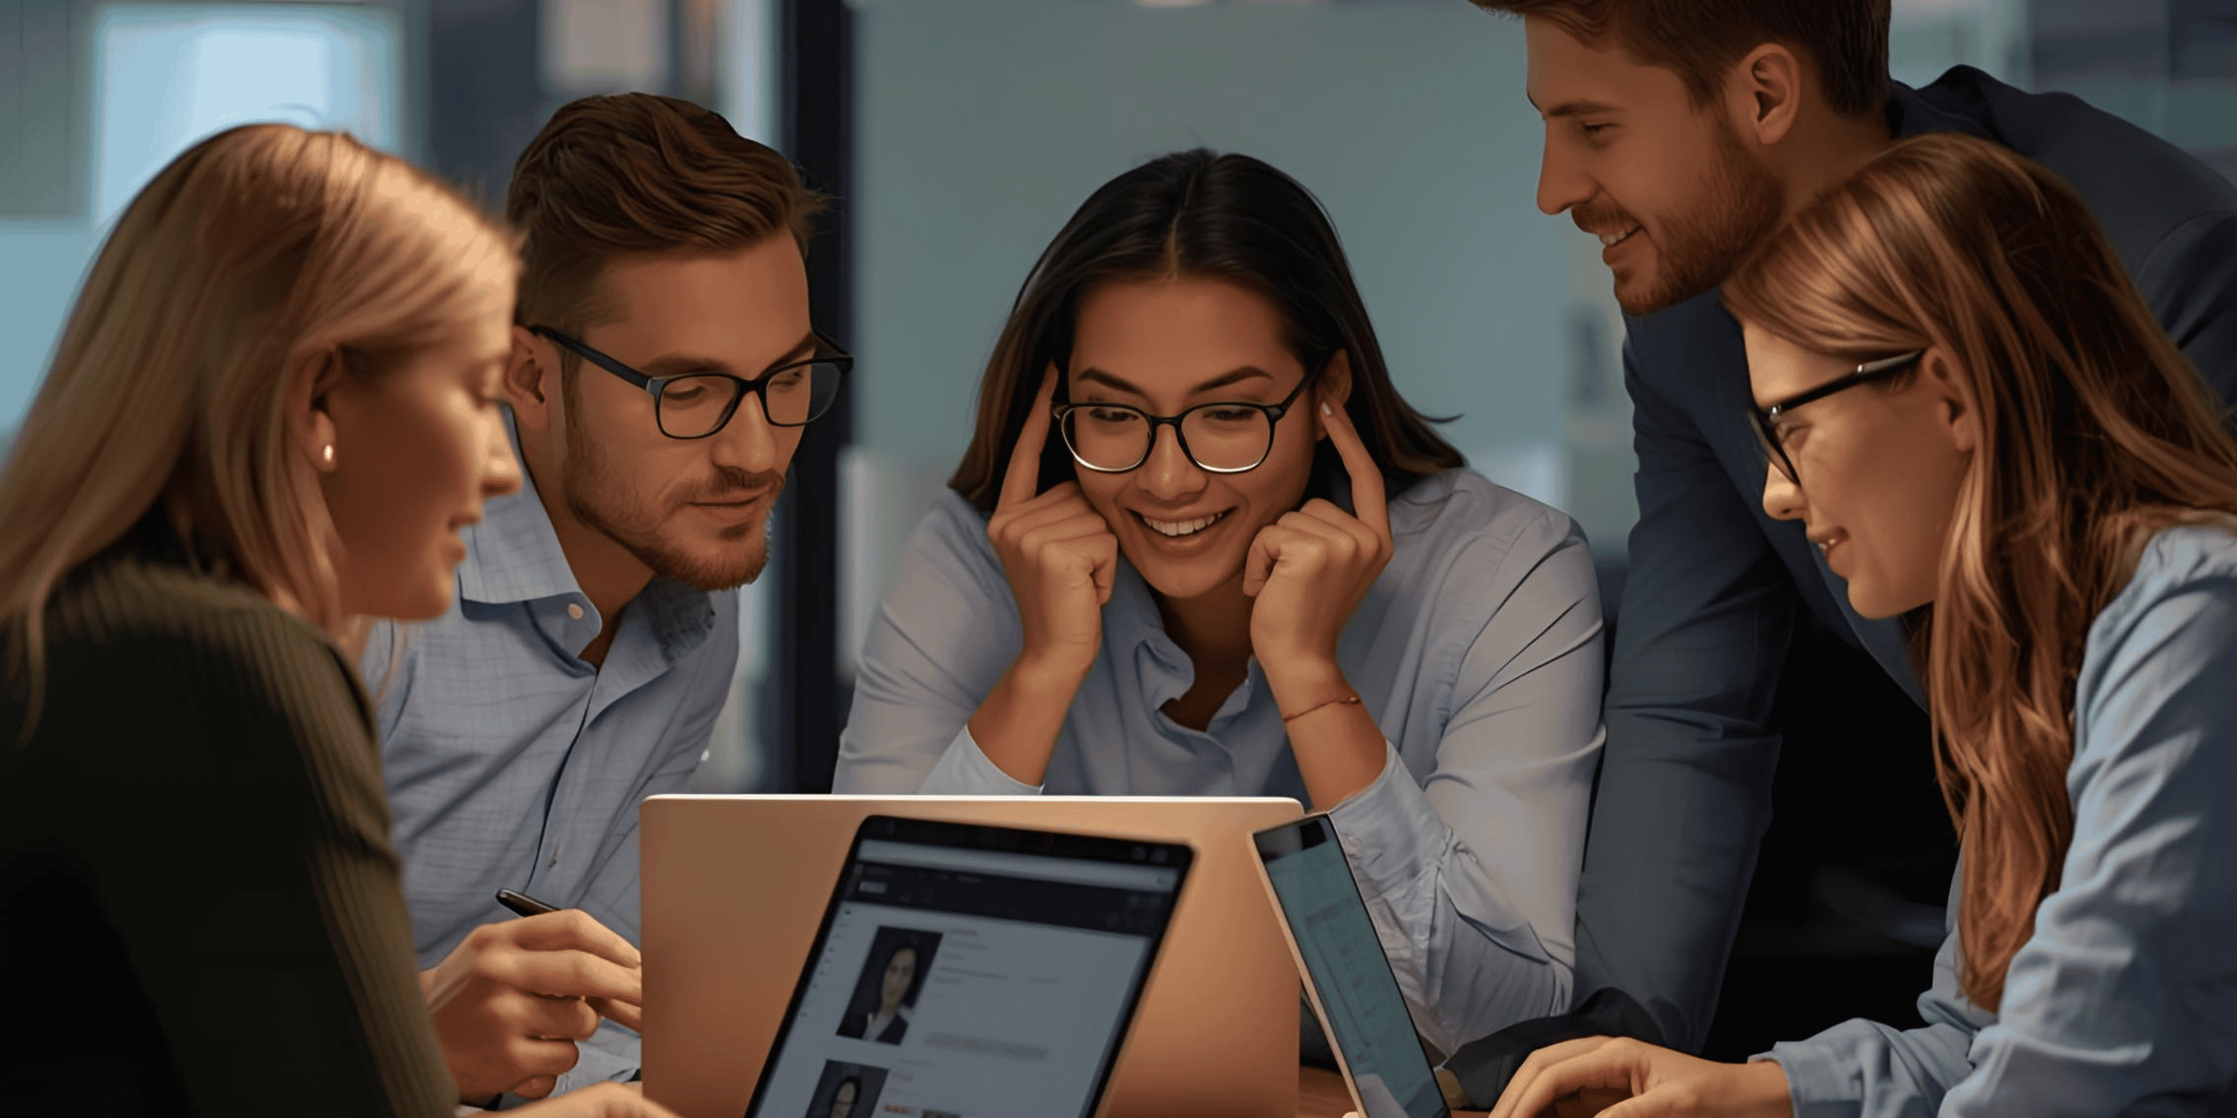
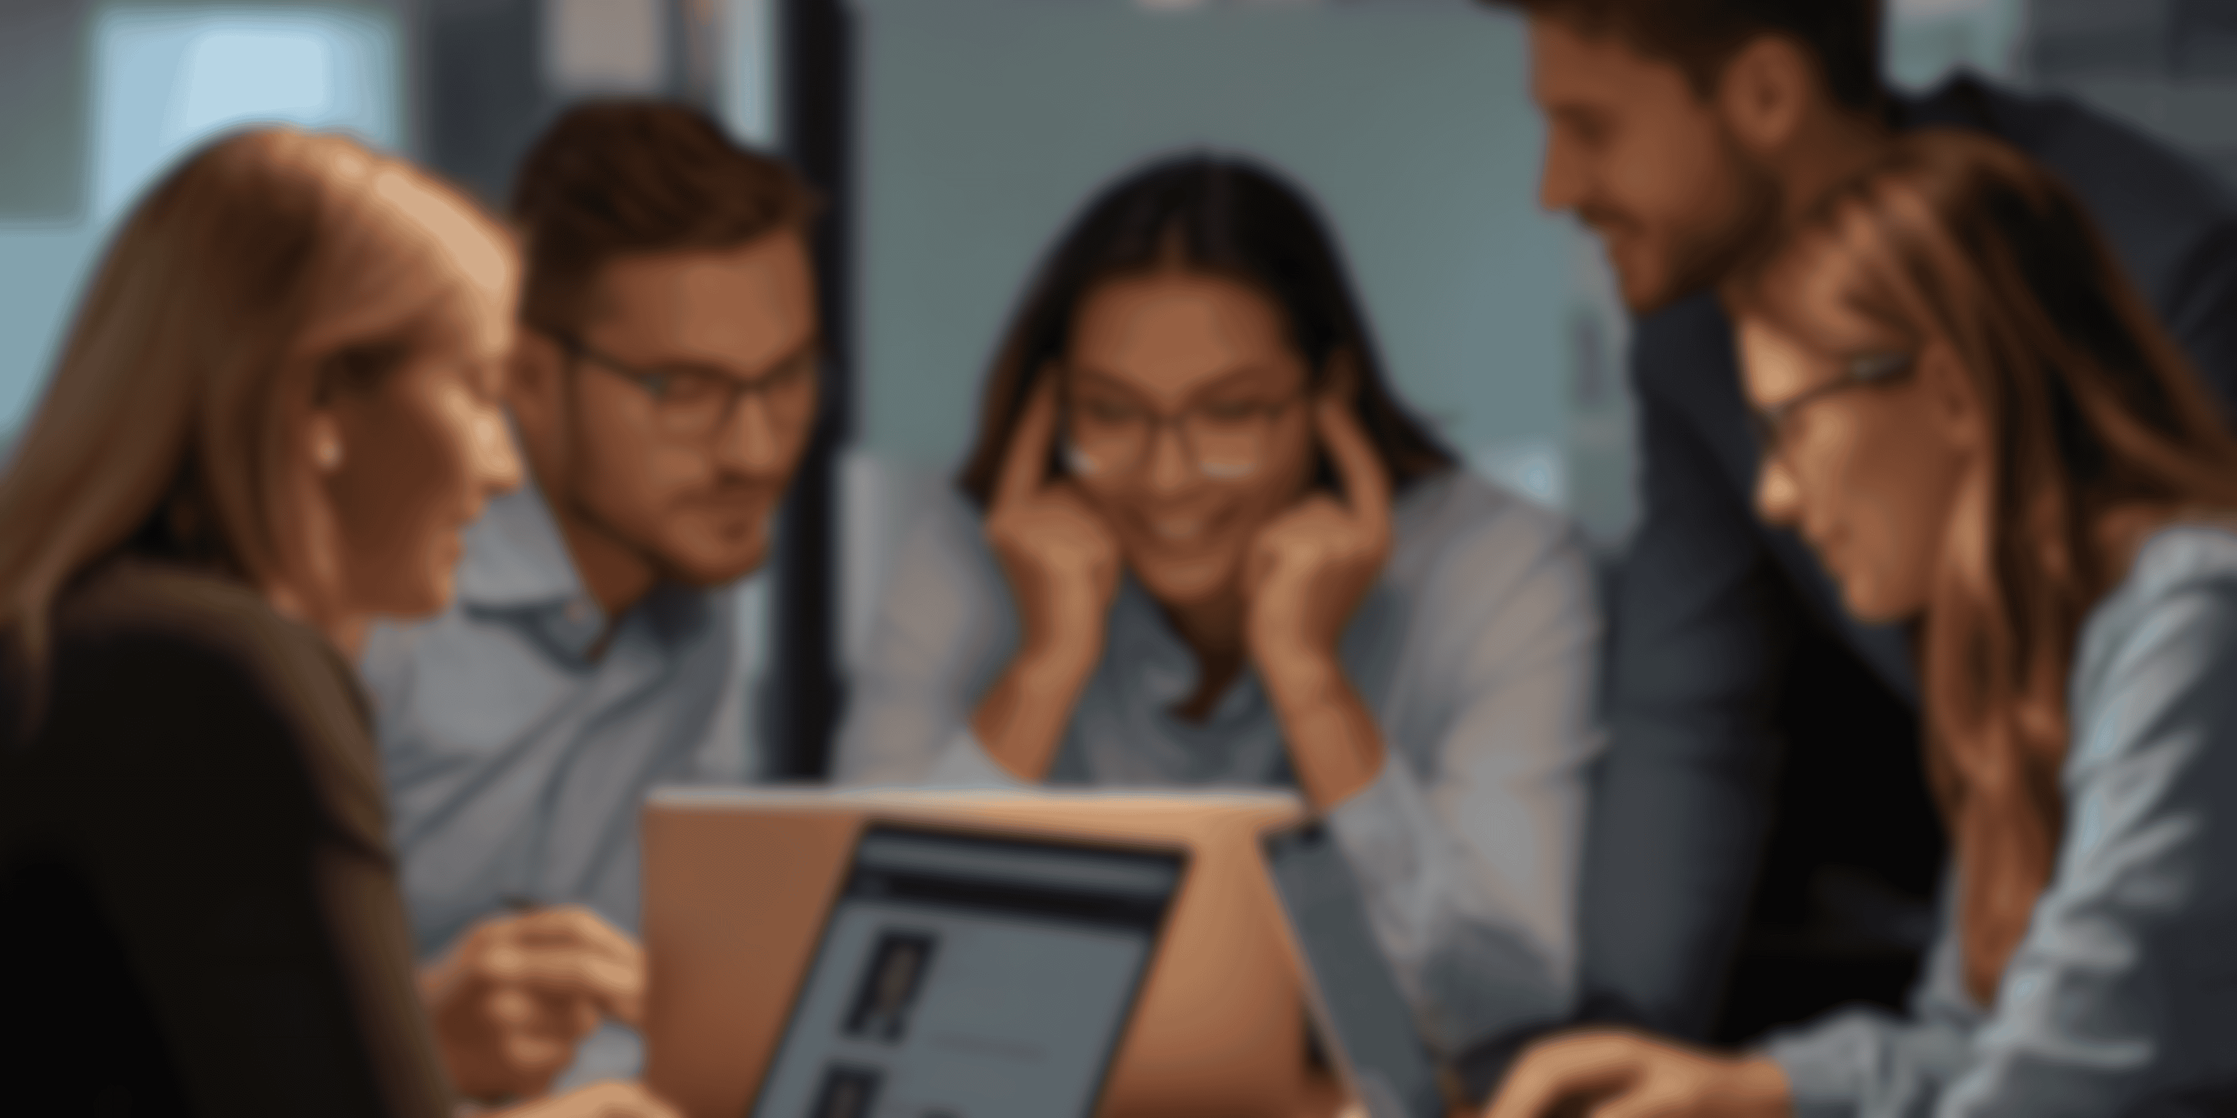
Home Screen Revamp Added Staffing Section

diff --git a/app/homepage/process-section.tsx b/app/homepage/process-section.tsx
@@ -1,13 +1,9 @@
 "use client";
 
 import Image from "next/image";
-import { motion as m } from "framer-motion";
 import { Target, Lightbulb, Rocket } from "lucide-react";
 
 export default function HowItWorksSection() {
-    const number = [
-        "1", "", "2", "", "3"
-    ]
     const steps = [
         {
             number: "1",
@@ -17,24 +13,13 @@ export default function HowItWorksSection() {
         },
         {
             number: "2",
-            title: "Dummy",
-            desc: "Dummy",
-            icon: Target
-        },
-        {
-            number: "3",
             title: "Handover the project",
             desc: "We're your project navigators, turning plans into reality. Smooth sailing guaranteed.",
             icon: Lightbulb
         },
+
         {
-            number: "4",
-            title: "Dummy",
-            desc: "Dummy",
-            icon: Target
-        },
-        {
-            number: "5",
+            number: "3",
             title: "Count the profit",
             desc: "Sit back, relax, and let the profits set sail. Your success story starts with us!",
             icon: Rocket
@@ -43,14 +28,12 @@ export default function HowItWorksSection() {
 
     return (
         <div className="flex flex-col w-full items-center justify-center pb-30">
-            <div className="flex flex-col border border-fuchsia-100/50 shadow-xl shadow-fuchsia-100 rounded-2xl py-10 lg:px-20 px-5 items-center gap-10 w-[95%] xl:w-[75%]">
+            <div className="flex flex-col border border-fuchsia-100 shadow-xl shadow-fuchsia-100 rounded-2xl py-10 lg:px-20 px-5 items-center gap-10 w-[95%] xl:w-[75%]">
 
                 <h2 className="text-6xl sm:text-7xl font-bold bg-gradient-to-b from-fuchsia-900 via-[#f081f3] to-[#a3a9ce] bg-clip-text text-transparent text-center">
                     How it starts?
                 </h2>
-
                 <hr className="border border-fuchsia-100 w-full" />
-
                 <div className="grid grid-cols-1 md:grid-cols-2 gap-20 w-full">
                     <div className="flex justify-center items-start order-1 md:order-2">
                         <Image
@@ -62,46 +45,30 @@ export default function HowItWorksSection() {
                         />
                     </div>
 
-                    <div className="flex flex-row flex-shrink-0 md:w-[400px] w-full gap-10 order-2 md:order-1">
-                        <div>
-                            {number.map((index, i) => (
-                                index !== "" ? (
-                                    <div
-                                        key={i}
-                                        className="w-10 h-10 flex items-center justify-center bg-fuchsia-100 
-                                            text-fuchsia-700 font-bold rounded-full shadow-sm z-10 hover:bg-fuchsia-700 hover:text-white"
-                                    >
-                                        {index}
-                                    </div>
-                                ) : (
-                                    <div key={i} className="text-gray-400">
-                                        <div className="top-10 ml-4.5 w-[2px] lg:h-[90px] md:h-[90px] sm:h-[60px] h-[80px] bg-fuchsia-200"></div>
-                                    </div>
-                                )
-                            ))}
+                    <div className="flex sm:flex-row flex-col">
+                        <div className="flex-1 min-w-[220px]">
+                            {
+                                steps.map((service, key) => (
+                                    <div key={key} className="w-full" >
+                                        <div className="flex items-center gap-5">
+                                            <h1 className="w-10 h-10 flex items-center justify-center bg-fuchsia-100 
+                                            text-fuchsia-700 font-bold rounded-full shadow-sm z-10 hover:bg-fuchsia-700 hover:text-white">{service.number}</h1>
+                                            <div className="flex-1 bg-gradient-to-r from-fuchsia-100  px-5 py-2 rounded-xl">
+                                                <h2 className="text-primary text-lg font-bold ">{service.title}</h2>
+                                                <h2 className="text-primary text-[15px] ">{service.desc}</h2>
+                                            </div>
 
+                                        </div>
+                                        {
+                                            key !== steps.length - 1 ? (
+                                                <div className="border-l ml-5 -my-12 h-30 border-fuchsia-100"></div>
+                                            ) : null
+                                        }
+
+                                    </div>
+                                ))
+                            }
                         </div>
-                        <div>
-                            {steps.map((index, i) => (
-                                index.title !== "Dummy" ? (
-                                    <div
-                                        key={i}
-                                    >
-                                        <h3 className="font-bold text-dark text-xl mb-1">{index.title}</h3>
-                                        <p className="text-gray-600">{index.desc}</p>
-                                    </div>
-                                ) : (
-                                    <div key={i} className="text-gray-400">
-                                        <div className="h-[30px] lg:h-[25px]"></div>
-                                    </div>
-                                )
-                            ))}
-                        </div>
-                        <div>
-
-                        </div>
-
-
                     </div>
 
 

diff --git a/app/staffing/components/heroSection.tsx b/app/staffing/components/heroSection.tsx
@@ -9,19 +9,21 @@ export default function StaffingHeroSection() {
     const router = useRouter()
 
     return (
-        <section className="flex flex-col items-center h-auto py-10 pb-20">
+        <section className="flex flex-col lg:h-dvh bg-fixed bg-cover bg-center items-center h-auto py-10 pb-20"
+            style={{ backgroundImage: "url('/Images/staffing/banner.png')" }}
+        >
             <div className="flex flex-col-reverse xl:flex-row gap-5 items-center justify-center lg:w-[75%] w-[95%]">
                 <div className="flex flex-col gap-10 xl:items-start items-center justify-center">
-                    <h1 className="md:text-7xl py-2 xl:text-start text-center text-5xl bg-gradient-to-b from-fuchsia-900 to-[#f081f3] bg-clip-text text-transparent font-bold">Build Your Team
+                    <h1 className="md:text-7xl py-2 xl:text-start text-center text-5xl text-light font-bold">Build Your Team
                         With the Right Talent </h1>
-                    <h2 className="text-lg xl:text-start text-center bg-gradient-to-b from-fuchsia-900 to-[#f081f3] bg-clip-text text-transparent font-bold">End to end Staffing services Designed to simplify hiring</h2>
+                    <h2 className="text-lg xl:text-start text-center bg-gradient-to-r from-fuchsia-100 to-[#f081f3] bg-clip-text text-transparent font-bold">End to end Staffing services Designed to simplify hiring</h2>
                     <div className="flex flex-col sm:flex-row gap-5">
-                        <PopButton onClick={() => { router.push("/getstarted") }} text="Get Started" />
-                        <PopButton onClick={() => { router.push("/contact") }} text="Contact Us" />
+                        <PopButton icon="Rocket" onClick={() => { router.push("/getstarted") }} text="Get Started" />
+                        <PopButton icon="MessageCircle" onClick={() => { router.push("/contact") }} text="Contact Us" />
                     </div>
 
                 </div>
-                <div className="relative w-full relative max-w-[400px] rounded-4xl overflow-hidden">
+                <div className="relative w-full shadow-xl shadow-fuchsia-300/50 relative max-w-[400px] rounded-4xl overflow-hidden">
                     <VideoPlayer videoUrl="/Videos/homepage/homepage-banner.webm" />
                 </div>
             </div>

diff --git a/app/homepage/components/process.tsx b/app/homepage/components/process.tsx
@@ -1,0 +1,42 @@
+
+
+import { staffingProcess } from "@/app/data/data"
+import Image from "next/image"
+
+
+export default function ProcessSection() {
+    return (
+        <div className="flex flex-col pb-20 items-center w-full ">
+            <div className="flex w-[90%] lg:w-[66%] flex-col gap-10 rounded-2xl shadow-md shadow-fuchsia-300 p-10 border border-primary/40 bg-light">
+                <h1 className="md:text-7xl py-2 text-center text-5xl bg-gradient-to-b from-fuchsia-900 to-[#f081f3] bg-clip-text text-transparent font-bold">Our Process</h1>
+                <hr className="border border-fuchsia-100" />
+                <div className="flex sm:flex-row flex-col">
+                    <div className="flex-1 min-w-[220px]">
+                        {
+                            staffingProcess.map((service, key) => (
+                                <div key={key} className="w-full" >
+                                    <div className="flex items-center gap-5">
+                                        <h1 className="w-10 h-10 flex items-center justify-center bg-fuchsia-100 
+                                            text-fuchsia-700 font-bold rounded-full shadow-sm z-10 hover:bg-fuchsia-700 hover:text-white">{service.key}</h1>
+                                        <h2 className=" text-primary bg-gradient-to-r from-fuchsia-100  px-5 py-2 rounded-xl">{service.title}</h2>
+                                    </div>
+                                    {
+                                        key !== staffingProcess.length - 1 ? (
+                                            <div className="border-l ml-5 h-8 border-fuchsia-100"></div>
+                                        ) : null
+                                    }
+
+                                </div>
+                            ))
+                        }
+                    </div>
+                    <div className="w-full flex-1 flex flex-col items-center">
+                        <div className="relative rounded-2xl overflow-hidden">
+                            <Image src={"/Images/staffing/uibanner.png"} objectFit="contain" alt="hiring image" height={400} width={300} />
+                        </div>
+                    </div>
+                </div>
+            </div>
+        </div>
+    )
+}

diff --git a/app/staffing/components/whyChooseSection.tsx b/app/staffing/components/whyChooseSection.tsx
@@ -1,0 +1,34 @@
+import { CircleChevronRight } from "lucide-react";
+
+export default function WhyChooseSection() {
+    return (
+        <div className="flex flex-col pb-20 items-center w-full ">
+            <div className="flex w-[90%] lg:w-[66%] flex-col gap-10 rounded-2xl shadow-md shadow-fuchsia-300 p-10 border border-primary/40 bg-light">
+                <div className="flex flex-col gap-5">
+                    <div className="flex flex-col gap-10">
+                        <h1 className="md:text-7xl py-2 text-center text-5xl bg-gradient-to-b from-fuchsia-900 to-[#f081f3] bg-clip-text text-transparent font-bold">Why Choose DataKit Studio</h1>
+                        <hr className="border border-fuchsia-100" />
+                    </div>
+                    <ul className="grid grid-cols-2">
+                        <li className="flex gap-5">
+                            <CircleChevronRight className="text-fuchsia-300 flex-shrink-0" size={20} />
+                            Expert support without building an internal recruitment team
+                        </li>
+                        <li className="flex gap-5">
+                            <CircleChevronRight className="text-fuchsia-300 flex-shrink-0" size={20} />
+                            Faster and more efficient hiring cycles
+                        </li>
+                        <li className="flex gap-5">
+                            <CircleChevronRight className="text-fuchsia-300 flex-shrink-0" size={20} />
+                            Structured and transparent process
+                        </li>
+                        <li className="flex gap-5">
+                            <CircleChevronRight className="text-fuchsia-300 flex-shrink-0" size={20} />
+                            Cost-effective staffing solutions
+                        </li>
+                    </ul>
+                </div>
+            </div>
+        </div>
+    )
+}

diff --git a/app/staffing/components/whatWeDoSection.tsx b/app/staffing/components/whatWeDoSection.tsx
@@ -4,7 +4,7 @@ import Image from "next/image";
 
 export default function WhatWeDoSection() {
     return (
-        <div className="flex flex-col pb-20 items-center w-full ">
+        <div className="flex flex-col pb-20 pt-20 rounded-4xl -mt-10 bg-light items-center w-full ">
             <div className="flex w-[90%] lg:w-[66%] flex-col gap-10 rounded-2xl shadow-md shadow-fuchsia-300 p-10 border border-primary/40 bg-light">
                 <div>
                     <h1 className="md:text-7xl py-2 text-center text-5xl bg-gradient-to-b from-fuchsia-900 to-[#f081f3] bg-clip-text text-transparent font-bold">
@@ -13,7 +13,7 @@ export default function WhatWeDoSection() {
                     <hr className="border border-fuchsia-100" />
                 </div>
 
-                <div className="flex flex-col items-center justify-center xl:flex-row gap-5">
+                <div className="flex flex-col-reverse lg:flex-col items-center justify-center xl:flex-row gap-5">
                     <h1 className="flex-1">We act as your trusted hiring partner, offering end-to-end staffing support so you can focus on growing your business while we handle the recruitment workload</h1>
 
                     <div className="flex-1 relative rounded-2xl overflow-hidden">

diff --git a/app/homepage/services-banner.tsx b/app/homepage/services-banner.tsx
@@ -7,8 +7,8 @@ import { services } from "@/app/data/data"
 export default function ServicesBanner() {
 
     return (
-        <div className="flex flex-col bg-white/10 justify-between items-center gap-20 items-center width-full py-10">
-            <div className="flex flex-col relative items-center shadow-xl shadow-fuchsia-100 lg:w-[75%] w-[95%] h-auto py-10 px-10  rounded-2xl ">
+        <div className="flex flex-col rounded-4xl -mt-10 bg-light justify-between items-center gap-20 items-center width-full py-10">
+            <div className="flex flex-col relative items-center shadow-xl border border-fuchsia-100 shadow-fuchsia-100 lg:w-[75%] w-[95%] h-auto py-10 px-10  rounded-2xl ">
                 <div className="flex flex-col gap-10 pb-10 items-center w-full">
                     <div className="w-full bg-white/10 flex flex-col  items-center">
                         <AnimatedAsset svgSrc="/Images/Services.svg" animation="float" className="w-35 h-13" />

diff --git a/app/staffing/page.tsx b/app/staffing/page.tsx
@@ -3,9 +3,12 @@
 import Footer from "../components/footer";
 import Header from "../components/header";
 import ScrollToTopButton from "../components/scroll-to-top";
+import ProcessSection from "../homepage/components/process";
+import CallToActionSection from "./components/callToActionSection";
 import StaffingHeroSection from "./components/heroSection";
 import WhatWeDoSection from "./components/whatWeDoSection";
 import WhatWeOffer from "./components/whatWeOffer";
+import WhyChooseSection from "./components/whyChooseSection";
 
 export default function GetStarted() {
     return (
@@ -14,6 +17,9 @@ export default function GetStarted() {
             <StaffingHeroSection />
             <WhatWeDoSection />
             <WhatWeOffer />
+            <ProcessSection />
+            <WhyChooseSection />
+            <CallToActionSection />
             <Footer />
             <ScrollToTopButton />
         </div>

diff --git a/app/homepage/vide-text-banner.tsx b/app/homepage/vide-text-banner.tsx
@@ -12,8 +12,11 @@ export default function VideoTextBanner() {
     const route = useRouter()
 
     return (
-        <section style={{ contentVisibility: "auto" }} className="w-full">
-            <div className="flex flex-col items-center bg-[url('/Images/background/banner-bg.png')] py-10 bg-cover bg-center w-full lg:h-dvh">
+        <section
+            className="flex flex-col h-auto bg-fixed bg-cover bg-center lg:h-dvh pb-20"
+            style={{ backgroundImage: "url('/Images/background/banner-bg.png')" }}
+        >
+            <div className="flex flex-col items-center py-10 w-full">
                 <div className="flex flex-col items-center justify-center gap-10 lg:flex-row xl:w-[75%] w-[95%] ">
                     <div className="relative w-full flex-1 relative max-w-[400px] rounded-4xl overflow-hidden">
                         <VideoPlayer videoUrl="/Videos/homepage/homepage-banner.webm" />

diff --git a/app/staffing/components/callToActionSection.tsx b/app/staffing/components/callToActionSection.tsx
@@ -1,0 +1,16 @@
+import PopButton from "@/app/components/helper-components/pop-button";
+
+
+export default function CallToActionSection() {
+    return (
+        <div className="flex flex-col pb-20 items-center w-full ">
+            <div className="flex w-[90%] lg:w-[66%] flex-col gap-10 rounded-2xl shadow-md shadow-fuchsia-300 p-10 border border-primary/40 bg-light">
+                <div className="flex flex-col md:flex-row items-center justify-between gap-10">
+                    <h1 className="text-4xl text-dark font-extrabold text-center">Ready to build your <span className="text-secondary">team</span>?</h1>
+                    <PopButton text="Speak to our hiring expert" />
+                </div>
+            </div>
+        </div>
+    )
+}
+

diff --git a/app/data/data.tsx b/app/data/data.tsx
@@ -198,6 +198,36 @@ export const staffingServices = [
     }
 ]
 
+export const staffingProcess = [
+    {
+        "key": 1,
+        "title": "Research & Dev",
+    },
+
+    {
+        "key": 2,
+        "title": "Talent Recruitment",
+
+    },
+    {
+        "key": 3,
+        "title": "Sourcing",
+
+    },
+    {
+        "key": 4,
+        "title": "Screening",
+    },
+    {
+        "key": 5,
+        "title": "Interview",
+    },
+    {
+        "key": 6,
+        "title": "Joining",
+    }
+]
+
 export const platforms = [
     {
         "key": 1,

diff --git a/app/page.tsx b/app/page.tsx
@@ -11,14 +11,14 @@ import LazyVideoBanner from "./homepage/components/video-banner";
 
 export default function Home() {
   return (
-    <div className="flex flex-col h-auto w-full bg-light">
+    <div className="">
       <Header className="shadow-lg shadow-fuchsia-300/30" />
 
       <LazyVideoBanner />
       <ServicesBanner />
-      <div style={{ contentVisibility: "auto" }}>
-        <ResultSection />
-      </div>
+
+      <ResultSection />
+
       <ProcessSection />
       <WhyUsSection />
       <CallToActionSection />

diff --git a/app/globals.css b/app/globals.css
@@ -56,7 +56,6 @@ body {
   color: var(--foreground);
   font-family: Arial, Helvetica, sans-serif;
   max-width: 100%;
-  overflow-x: clip;
   /* DOES NOT break sticky */
   /* overflow-x: hidden !important; */
   width: 100%;
